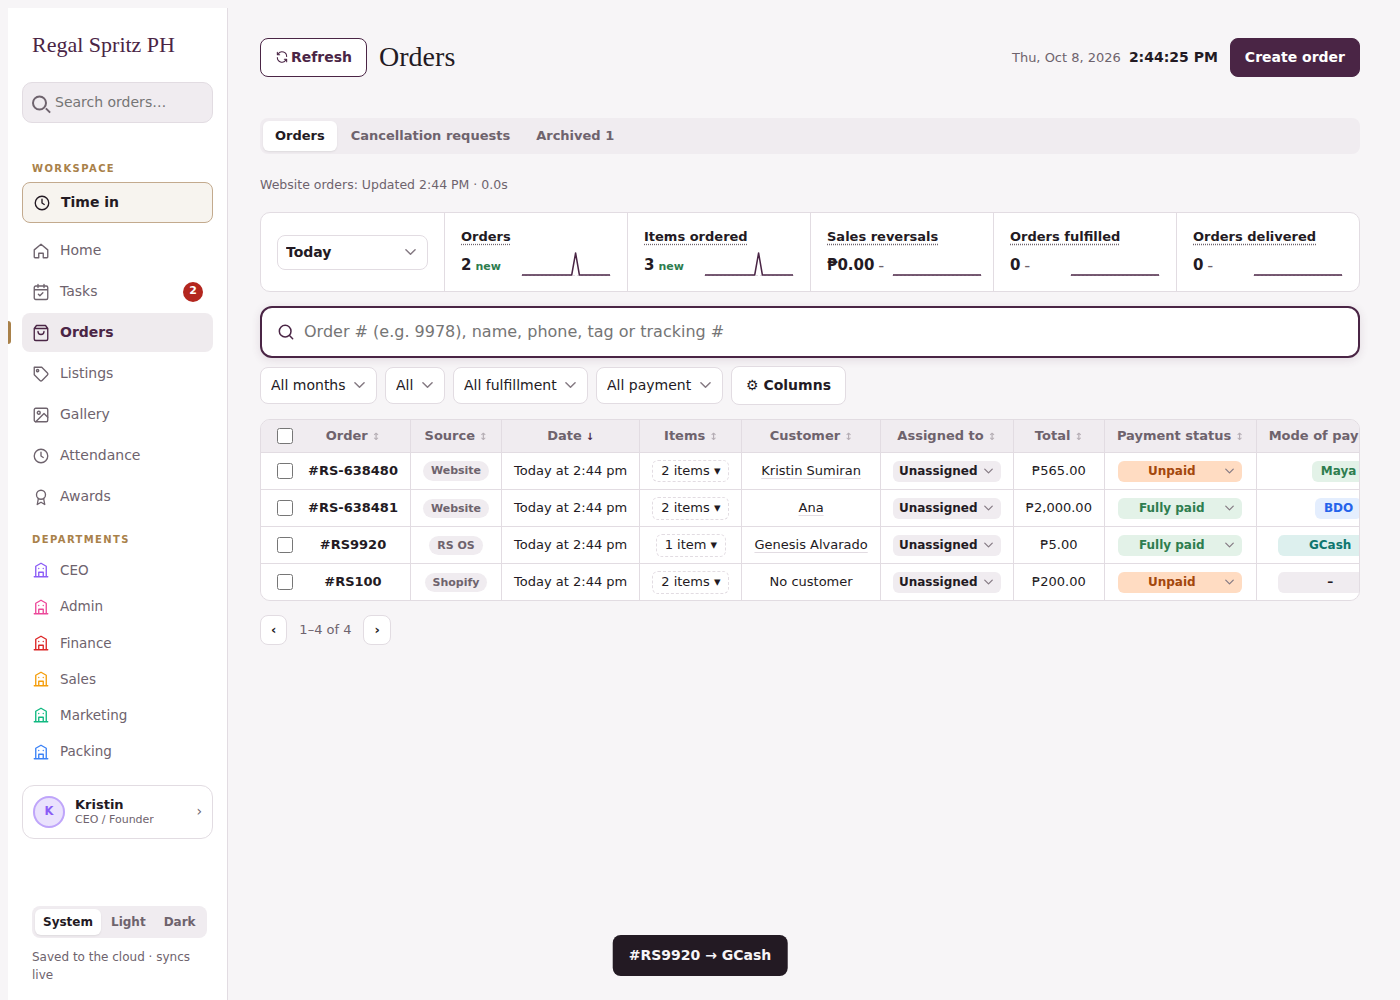
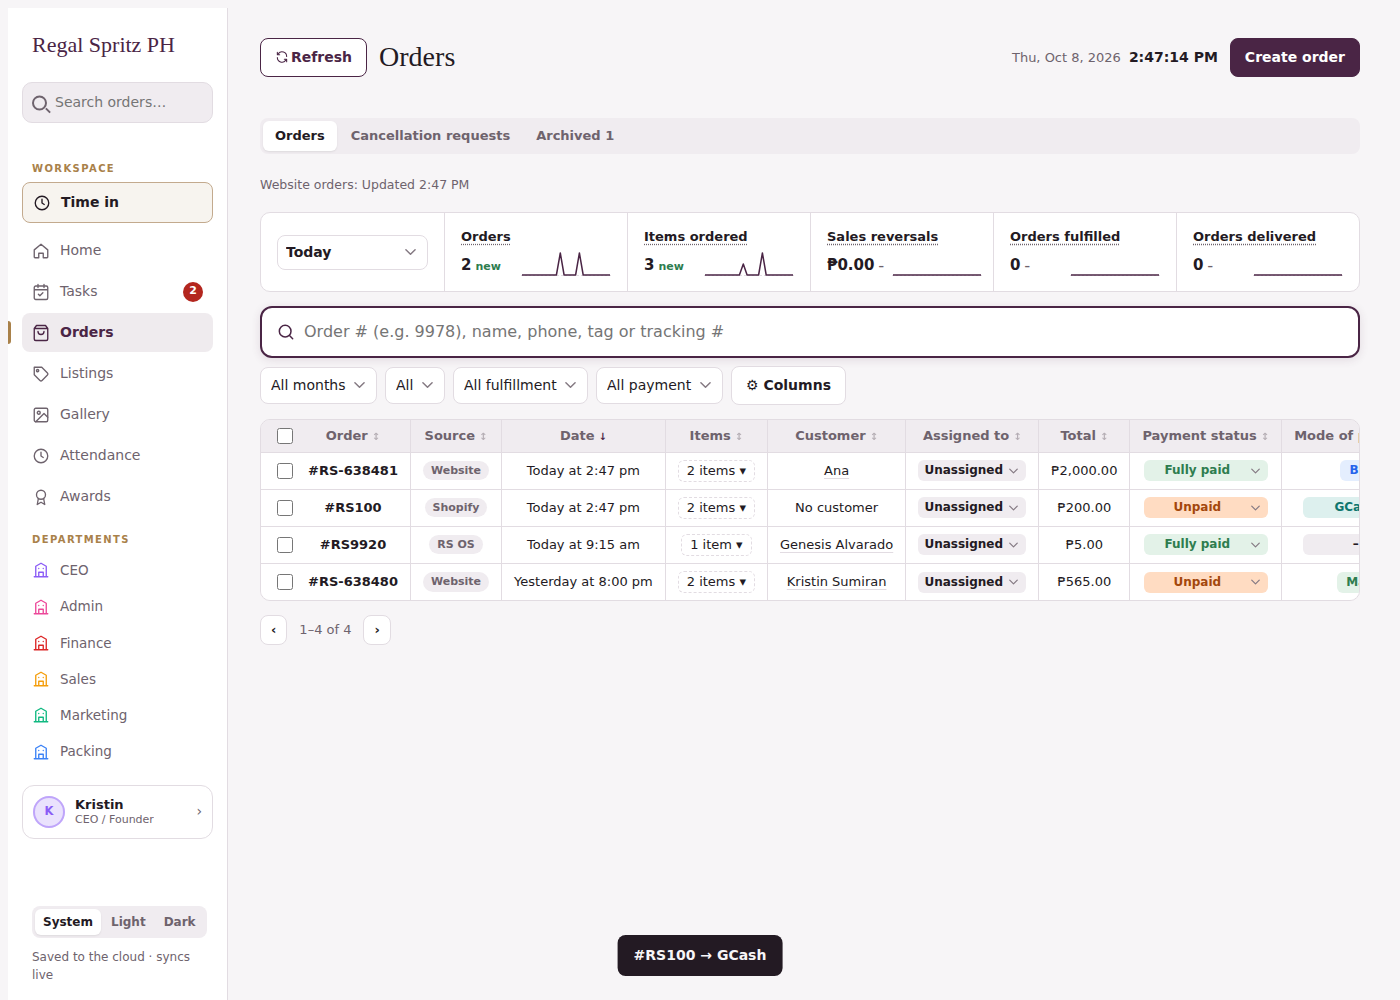
All dates and times in Manila time (GMT+8) on any device; read zone-less website dates as Manila
Claude-Session: https://claude.ai/code/session_01AYDsSWBAawWBZdaPHMfdkm

diff --git a/projects/business-os/index.html b/projects/business-os/index.html
@@ -977,7 +977,10 @@ const $ = s => document.querySelector(s);
 const esc = v => String(v ?? "").replace(/[&<>"']/g, c => ({ "&": "&amp;", "<": "&lt;", ">": "&gt;", '"': "&quot;", "'": "&#39;" }[c]));
 // Formatters are built once: making a new one per call is slow on low-end phones.
 const NF0 = new Intl.NumberFormat("en-PH", { minimumFractionDigits: 0, maximumFractionDigits: 2 }), NF2 = new Intl.NumberFormat("en-PH", { minimumFractionDigits: 2, maximumFractionDigits: 2 });
-const DF_DAY = new Intl.DateTimeFormat("en-CA"), DF_TIME = new Intl.DateTimeFormat("en-PH", { hour: "numeric", minute: "2-digit" }), DF_WD = new Intl.DateTimeFormat("en-PH", { weekday: "long" }), DF_MD = new Intl.DateTimeFormat("en-PH", { month: "short", day: "numeric" }), DF_MDY = new Intl.DateTimeFormat("en-PH", { month: "short", day: "numeric", year: "numeric" });
+const DF_DAY = new Intl.DateTimeFormat("en-CA", { timeZone: "Asia/Manila" }), DF_TIME = new Intl.DateTimeFormat("en-PH", { timeZone: "Asia/Manila", hour: "numeric", minute: "2-digit" }), DF_WD = new Intl.DateTimeFormat("en-PH", { timeZone: "Asia/Manila", weekday: "long" }), DF_MD = new Intl.DateTimeFormat("en-PH", { timeZone: "Asia/Manila", month: "short", day: "numeric" }), DF_MDY = new Intl.DateTimeFormat("en-PH", { timeZone: "Asia/Manila", month: "short", day: "numeric", year: "numeric" });
+// All dates/times show in Manila time (GMT+8) on every device. Website dates without a time zone are read as Manila time.
+const webMs = d => { if (!d) return 0; if (typeof d === "number") return d; const t = new Date(d).getTime(); if (isNaN(t)) return 0;
+  return /Z$|[+-]\d{2}:?\d{2}$|GMT|UTC/i.test(String(d).trim()) ? t : t - (new Date(t).getTimezoneOffset() + 480) * 60000; };
 const peso = n => "₱" + NF0.format(Number(n) || 0);
 const peso2 = n => (n < 0 ? "-" : "") + "₱" + NF2.format(Math.abs(Number(n) || 0));
 const dstr = t => DF_DAY.format(new Date(t));
@@ -1080,7 +1083,7 @@ function relTime(t) {
   if (days === 0) day = "Today";
   else if (days === 1) day = "Yesterday";
   else if (days > 1 && days < 7) day = DF_WD.format(d);
-  else day = (d.getFullYear() !== now.getFullYear() ? DF_MDY : DF_MD).format(d);
+  else day = (dstr(d).slice(0, 4) !== dstr(now).slice(0, 4) ? DF_MDY : DF_MD).format(d);
   return `${day} at ${time}`;
 }
 
@@ -1101,7 +1104,7 @@ function inPeriod(date) {
   if (S.period === "all") return true;
   const d = new Date();
   if (S.period === "last") d.setMonth(d.getMonth() - 1, 1);
-  const key = d.toLocaleDateString("en-CA").slice(0, 7);
+  const key = (S.period === "last" ? d.toLocaleDateString("en-CA") : dstr(d)).slice(0, 7);
   return (date || "").startsWith(key);
 }
 const periodLabel = () => ({ month: "this month", last: "last month", all: "all time" }[S.period]);
@@ -2430,7 +2433,7 @@ function viewTasks(forceDept) {
     const first = new Date(y, m - 1, 1), dim = new Date(y, m, 0).getDate();
     const weeks = Math.ceil((first.getDay() + dim) / 7);
     const cells = [];
-    for (let i = 0; i < weeks * 7; i++) { const d = new Date(y, m - 1, 1 - first.getDay() + i); cells.push(dstr(d.getTime())); }
+    for (let i = 0; i < weeks * 7; i++) { const d = new Date(y, m - 1, 1 - first.getDay() + i, 12); cells.push(dstr(d.getTime())); }
     const dayTasks = scoped.filter(t => onDay(t, S.t.day));
     const pPerson = !forceDept && S.t.scope === "person" ? S.t.person : "";
     const showMoney = (finOpen() || DUE_PEOPLE.includes(myMemberId())) && (!forceDept || forceDept === "FINANCE");
@@ -2689,7 +2692,7 @@ const webStatusName = s => /^(shipped|delivered)$/i.test(s || "") ? "Completed" 
 const webDone = o => /^(completed|shipped|delivered|cancelled)$/i.test(o.status || "");
 const webPayKind = o => /maya/i.test(o.payment || "") ? "maya" : /bdo/i.test(o.payment || "") ? "bdo" : "";
 const webBadge = o => o.paid ? `<span class="badge green">Paid${o.mayaPaid ? " via Maya" : ""}</span>` : `<span class="badge amber">Unpaid</span>`;
-const webTime = d => { const t = d ? new Date(d) : null; return t && !isNaN(t) ? t.toLocaleString("en-PH", { month: "short", day: "numeric", hour: "numeric", minute: "2-digit" }) : ""; };
+const webTime = d => { const t = d ? new Date(webMs(d)) : null; return t && !isNaN(t) ? t.toLocaleString("en-PH", { timeZone: "Asia/Manila", month: "short", day: "numeric", hour: "numeric", minute: "2-digit" }) : ""; };
 const webItems = o => (o.items || []).map(i => `${i.qty > 1 ? i.qty + "× " : ""}${i.title || ""}${i.variant ? " (" + i.variant + ")" : ""}`).join(", ");
 let webBusy = false;
 // Moving between pages quietly re-reads the latest data (team data + website orders), at most every 15s.
@@ -2735,7 +2738,7 @@ function webErrNotice() {
   if (!S.site || !S.web.err || S.web.loading) return "";
   return `<div class="notice" style="background:var(--bad-bg, #fde8e8);color:var(--bad)"><span><strong>Website orders didn't load:</strong> ${esc(S.web.err)}${S.web.loaded ? " Showing the last list." : ""}</span><button class="btn sm" type="button" data-act="web-retry">Try again</button></div>`;
 }
-function paintWebState() { const el = $("#web-state"); if (el) { el.textContent = S.web.loading ? "Updating…" : S.web.at ? "Updated " + new Date(S.web.at).toLocaleTimeString("en-PH", { hour: "numeric", minute: "2-digit" }) + (S.web.ms ? ` · ${(S.web.ms / 1e3).toFixed(1)}s` : "") : ""; el.title = S.web.backendMs ? `The website backend took ${(S.web.backendMs / 1e3).toFixed(1)}s of ${(S.web.ms / 1e3).toFixed(1)}s.` : ""; } }
+function paintWebState() { const el = $("#web-state"); if (el) { el.textContent = S.web.loading ? "Updating…" : S.web.at ? "Updated " + new Date(S.web.at).toLocaleTimeString("en-PH", { timeZone: "Asia/Manila", hour: "numeric", minute: "2-digit" }) + (S.web.ms ? ` · ${(S.web.ms / 1e3).toFixed(1)}s` : "") : ""; el.title = S.web.backendMs ? `The website backend took ${(S.web.backendMs / 1e3).toFixed(1)}s of ${(S.web.ms / 1e3).toFixed(1)}s.` : ""; } }
 function webRows() {
   const q = squash(S.wf.q || "").replace(/^rs/, ""), f = S.wf.f;
   return S.web.orders.filter(o => (f === "all" || (f === "unpaid" ? !o.paid && !/cancel/i.test(o.status || "") : f === "paid" ? o.paid : f === "toship" ? o.paid && !webDone(o) : webPayKind(o) === f))
@@ -2750,7 +2753,7 @@ function webAsOrders() {
   S.web.dirty = false;
   const meta = new Map(S.webmeta.map(d => [d.ref, d]));
   const rows = S.web.orders.map(o => {
-    const t = new Date(o.date).getTime() || 0, cancel = /cancel/i.test(o.status || ""), m = meta.get(o.ref) || {};
+    const t = webMs(o.date), cancel = /cancel/i.test(o.status || ""), m = meta.get(o.ref) || {};
     const sitePay = cancel ? "voided" : o.paid ? "paid" : "pending", siteFul = WEB_FUL[String(o.status || "placed").toLowerCase()] || "unfulfilled";
     // The website decides paid / unpaid and shipped / delivered / cancelled; the team's finer choices show when they agree with it.
     const payment = m.payment && (m.payment === "paid") === (sitePay === "paid") && !cancel ? m.payment : sitePay;
@@ -2817,7 +2820,7 @@ async function webStockSync() {
   if (!cfg) { await save("webmeta", "_stock", { from: Date.now(), at: Date.now() }).catch(() => {}); return; }
   const me = S.uid || myMemberId() || "rs", now = Date.now(), metaOf = o => S.webmeta.find(d => d.id === webMetaId(o.ref)) || {};
   const todo = S.web.orders.filter(o => {
-    const t = new Date(o.date).getTime() || 0; if (!o.ref || !t || t < cfg.from) return false;
+    const t = webMs(o.date); if (!o.ref || !t || t < cfg.from) return false;
     const m = metaOf(o), cancel = /cancel/i.test(o.status || ""), taken = m.stock === "taken";
     if (cancel === !taken) return false;
     return !(m.stockClaim && m.stockClaim.by !== me && now - m.stockClaim.at < 60000);
@@ -2871,7 +2874,7 @@ function viewWebOrders() {
   const head = `<div class="toolbar">
     <div class="osearch">${svg("search")}<input id="wf-q" type="search" placeholder="Order # or name" value="${esc(S.wf.q)}" aria-label="Search website orders" autocomplete="off"></div>
     <div class="seg wseg" role="group" aria-label="Show">${[["all", "All"], ["unpaid", "Unpaid"], ["paid", "Paid"], ["toship", "To ship"], ["maya", "Maya"], ["bdo", "BDO"]].map(([k, l]) => `<button type="button" data-wf="${k}" aria-pressed="${S.wf.f === k}">${l} <small class="num">${n(k)}</small></button>`).join("")}</div>
-    <small id="web-state" style="color:var(--muted)">${S.web.loading ? "Updating…" : S.web.at ? "Updated " + new Date(S.web.at).toLocaleTimeString("en-PH", { hour: "numeric", minute: "2-digit" }) : ""}</small>
+    <small id="web-state" style="color:var(--muted)">${S.web.loading ? "Updating…" : S.web.at ? "Updated " + new Date(S.web.at).toLocaleTimeString("en-PH", { timeZone: "Asia/Manila", hour: "numeric", minute: "2-digit" }) : ""}</small>
   </div>`;
   if (S.web.err && !S.web.loaded) return head + `<div class="panel"><div class="empty" style="padding:22px">${esc(S.web.err)}</div></div>`;
   if (!S.web.loaded) return head + `<div class="panel"><div class="empty" style="padding:22px">Loading website orders…</div></div>`;
@@ -3579,7 +3582,7 @@ function viewOrders() {
   const bdoNote = nBdo && S.of.view !== "bdo" ? `<div class="notice" style="background:var(--warn-bg);color:var(--warn, #8a5a00)"><span><strong>${nBdo} BDO order${nBdo > 1 ? "s need" : " needs"} a payment link.</strong> Make the link in BDO Checkout and paste it in the order.</span><button class="btn sm" type="button" data-bdoview="1">Show ${nBdo > 1 ? "them" : "it"}</button></div>` : "";
   return `${webErrNotice()}${cxTabs}${bdoNote}
   <div class="shop-slot shop-line">${shopChip()}</div>
-  ${S.site && canOrders() ? `<div style="font-size:12.5px;color:var(--muted);margin:-4px 0 4px">Website orders: <span id="web-state">${S.web.loading || !S.web.loaded ? "Loading…" : S.web.at ? "Updated " + new Date(S.web.at).toLocaleTimeString("en-PH", { hour: "numeric", minute: "2-digit" }) + (S.web.ms ? ` · ${(S.web.ms / 1e3).toFixed(1)}s` : "") : ""}</span></div>` : ""}
+  ${S.site && canOrders() ? `<div style="font-size:12.5px;color:var(--muted);margin:-4px 0 4px">Website orders: <span id="web-state">${S.web.loading || !S.web.loaded ? "Loading…" : S.web.at ? "Updated " + new Date(S.web.at).toLocaleTimeString("en-PH", { timeZone: "Asia/Manila", hour: "numeric", minute: "2-digit" }) + (S.web.ms ? ` · ${(S.web.ms / 1e3).toFixed(1)}s` : "") : ""}</span></div>` : ""}
   ${ctxDept() === "CEO" ? statsStrip() : ""}
   ${ctxDept() === "PACKING" ? packTools() : ""}
   <div class="toolbar">
@@ -3668,7 +3671,7 @@ async function importBackup(file) {
   try {
     if (S.db._bulkSet) await S.db._bulkSet(rows, (n, t) => show(`Importing… ${n.toLocaleString("en-PH")} / ${t.toLocaleString("en-PH")}`));
     else for (const r of rows) await wdb().doc(r.path).set(r.data);
-    show(`Imported ${rows.length.toLocaleString("en-PH")} records from ${j.exportedAt ? new Date(j.exportedAt).toLocaleString("en-PH") : "the backup"}.`); toast("Backup imported.");
+    show(`Imported ${rows.length.toLocaleString("en-PH")} records from ${j.exportedAt ? new Date(j.exportedAt).toLocaleString("en-PH", { timeZone: "Asia/Manila" }) : "the backup"}.`); toast("Backup imported.");
   } catch (e) { show("Import stopped: " + ((e && e.message) || "couldn't save")); }
 }
 function accessReqPanel() {

diff --git a/CLAUDE.md b/CLAUDE.md
@@ -48,6 +48,7 @@ This file is my profile. Read it at the start of every session and follow it.
 - Home: one "Orders to ship" tile = To ship orders only (RS OS + website). No Unpaid website / Website to ship tiles.
 - Orders table: compact rows. "Mode of payment" column: website orders show the buyer's pick; RS OS orders have a dropdown (Maya, BDO, GCash, Bank transfer, Cash, COD, Card, Other), guessed from the pay link until set. Colors: Maya green, BDO blue, GCash teal, Bank transfer violet, Cash amber, COD orange, Card pink; Courier J&T red, SDD violet. Source column uses small same-size pills.
 - Top bar shows the live date and time (Manila), every page; phones show the time only.
+- All dashboard dates and times are Manila time (GMT+8) on every device. Website order dates without a time zone are read as Manila time.
 - Admin → Logins: A–Z by Account (ignores quotes/symbols), always split into Active accounts then Inactive accounts; clicking a column header sorts inside each group. Any table with group rows sorts the same way.
 - Undo: Ctrl/Cmd+Z undoes the last change in RS OS (one click or save = one step), Ctrl/Cmd+Shift+Z redoes.
 - When a fix can be done from the RS App (e.g. a site add-on), do it instead of asking K to paste into another chat.
